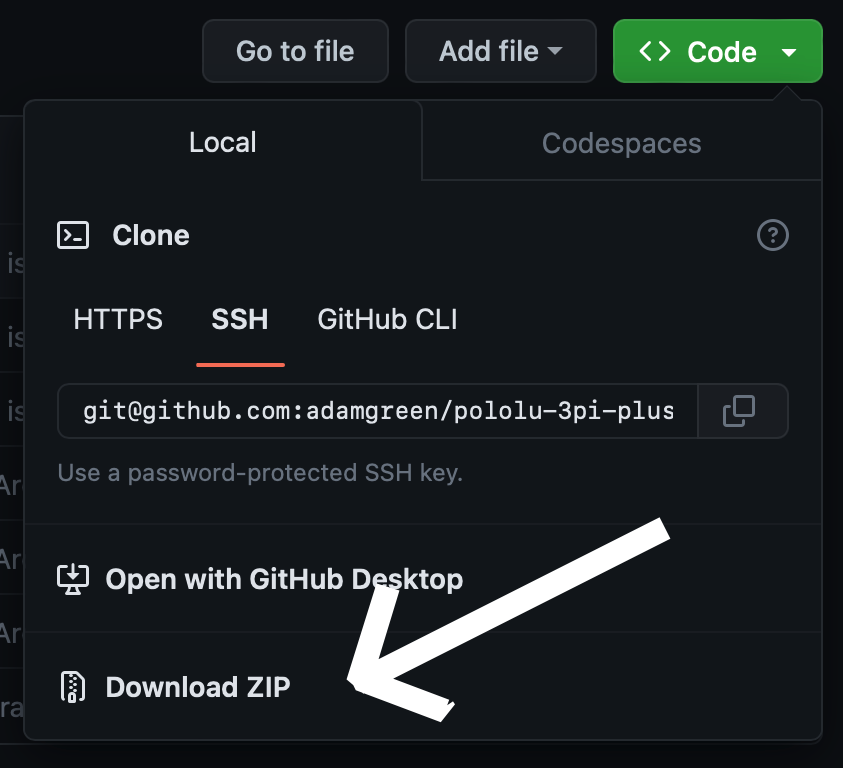
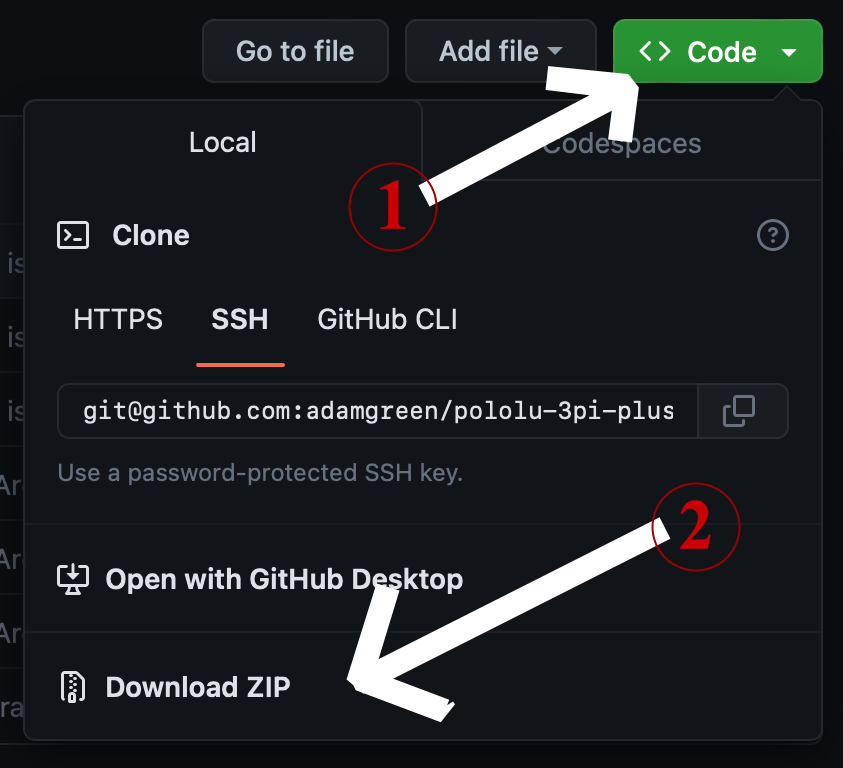
Updated README
Cleaned up documentation for how to use Arduino IDE with the 3pi+ 2040.

Changed region(s): [[0.4318, 0.0625, 0.7711, 0.3438], [0.7711, 0.625, 0.8944, 0.75], [0.4009, 0.25, 0.4318, 0.3125]]

diff --git a/README.md b/README.md
@@ -14,8 +14,7 @@ The 3pi+ 2040 robot is a complete, high-performance mobile platform based on the
 
 ## Installing the library
 
-* You can download this GitHub repository by clicking the `Code` button towards the top of this very page and selecting the `Download ZIP` option.<br><br>
-![Copy button](pio/CopyButton.png)<br><br>
+* You can download this GitHub repository by clicking the `Code` button towards the top of this very page and then selecting the `Download ZIP` option from the resulting drop down.<br><br>
 ![Download ZIP](pio/DownloadZip.png)<br><br>
 * Once downloaded you can follow the [Importing a .zip Library](https://docs.arduino.cc/software/ide-v1/tutorials/installing-libraries#importing-a-zip-library) steps from the official Arduino documentation.
 
@@ -27,15 +26,16 @@ The 3pi+ 2040 robot is a complete, high-performance mobile platform based on the
 4. ~~Click "Install".~~
 5. ~~If you see a prompt asking to install missing dependencies, click "Install all".~~
 
-## Arduino & 3pi+ 2040
+## Arduino IDE for the 3pi+ 2040
 ![Arduino Mbed OS RP2040 Library](pio/ArduinoRP2040.png)
 
-The latest Arduino IDE already ships with a board package that is compatible with the 3pi+ 2040: **Arduino Mbed OS RP2040 Boards**. The circuit of the 3pi+ 2040 PCB is close enough to the Raspberry Pi Pico that it just worked:
+The latest Arduino IDE already ships with a board package that is compatible with the 3pi+ 2040: **Arduino Mbed OS RP2040 Boards**. The circuit of the 3pi+ 2040 PCB is close enough to the Raspberry Pi Pico that it just works:
 * The yellow LED on the 3pi+ 2040 is even connected to the same pin as the user LED on the Pico, **Pin 25**. This means that the stock **Blink** Arduino example just worked on the 3pi+ 2040 as well.
+* The Wire library expects the I2C signals to be on the same pins: **Pin 4** (SDA) and **Pin 5** (SCL).
 
 
-## Uploading Code from Arduino IDE to 3pi+ 2040
-The Arduino IDE was able to successfully upload new code to the 3pi+ 2040 over the same USB connection as used for MicroPython programming. There are 2 ways that the Arduino IDE can upload code to the RP2040 microcontroller using the USB cable:
+## Uploading from the Arduino IDE to the 3pi+ 2040
+The Arduino IDE is able to successfully upload new code to the 3pi+ 2040 over the same USB connection as used for MicroPython programming. There are 2 ways that the Arduino IDE can upload code to the RP2040 microcontroller using the USB cable:
 * Once you have Arduino code up and running on your RP2040, the IDE can use USB to make a serial connection to the device. This means that `Serial.print()` calls in your code will show up in Arduino's *Serial Monitor*. Arduino can use this same USB serial connection to place the RP2040 into bootloader mode automatically. The user just needs to select the **Sketch/Upload** option in the Arduino IDE and it will build and deploy the code to your 3pi+ 2040 robot with no manual intervention from you. The image below shows the 3pi+ 2040 robot showing up as a **Rasperry Pi Pico** on the **dev/cu.usbmodem1101** virtual serial port when connected to my Mac.
 ![Selecting 3pi+ 2040 in Arduino IDE](pio/Arduino3pi2040.png)
 * The previous automatic upload process doesn't always work though. If the Arduino USB serial driver isn't successfully running on your 3pi+ 2040 then you will need to place the RP2040 into bootloader mode manually before starting the upload process in Arduino.All you need to do is hold down the **B Button** while cycling the **Reset Button**. This will force the RP2040 into bootloader mode where it shows up on your PC as a **RPI-RP2** drive. Once this special drive shows up on your PC, you can just select the **Sketch/Upload** option in the Arduino IDE as usual. When is this slightly more manual process required?
